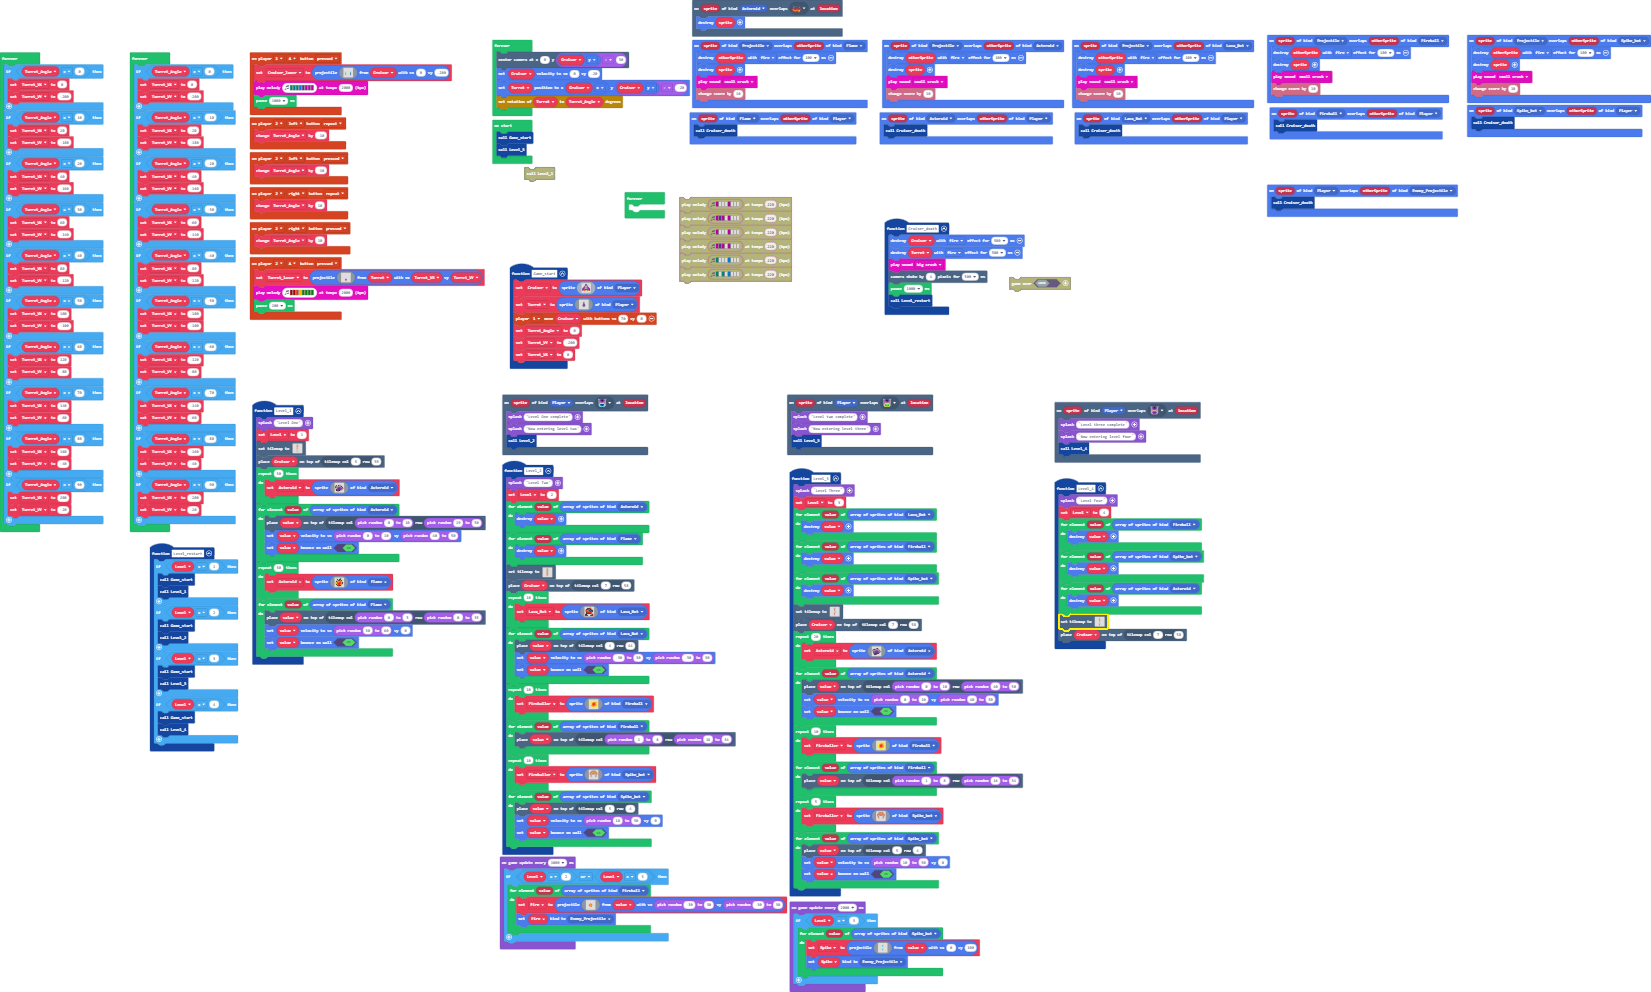
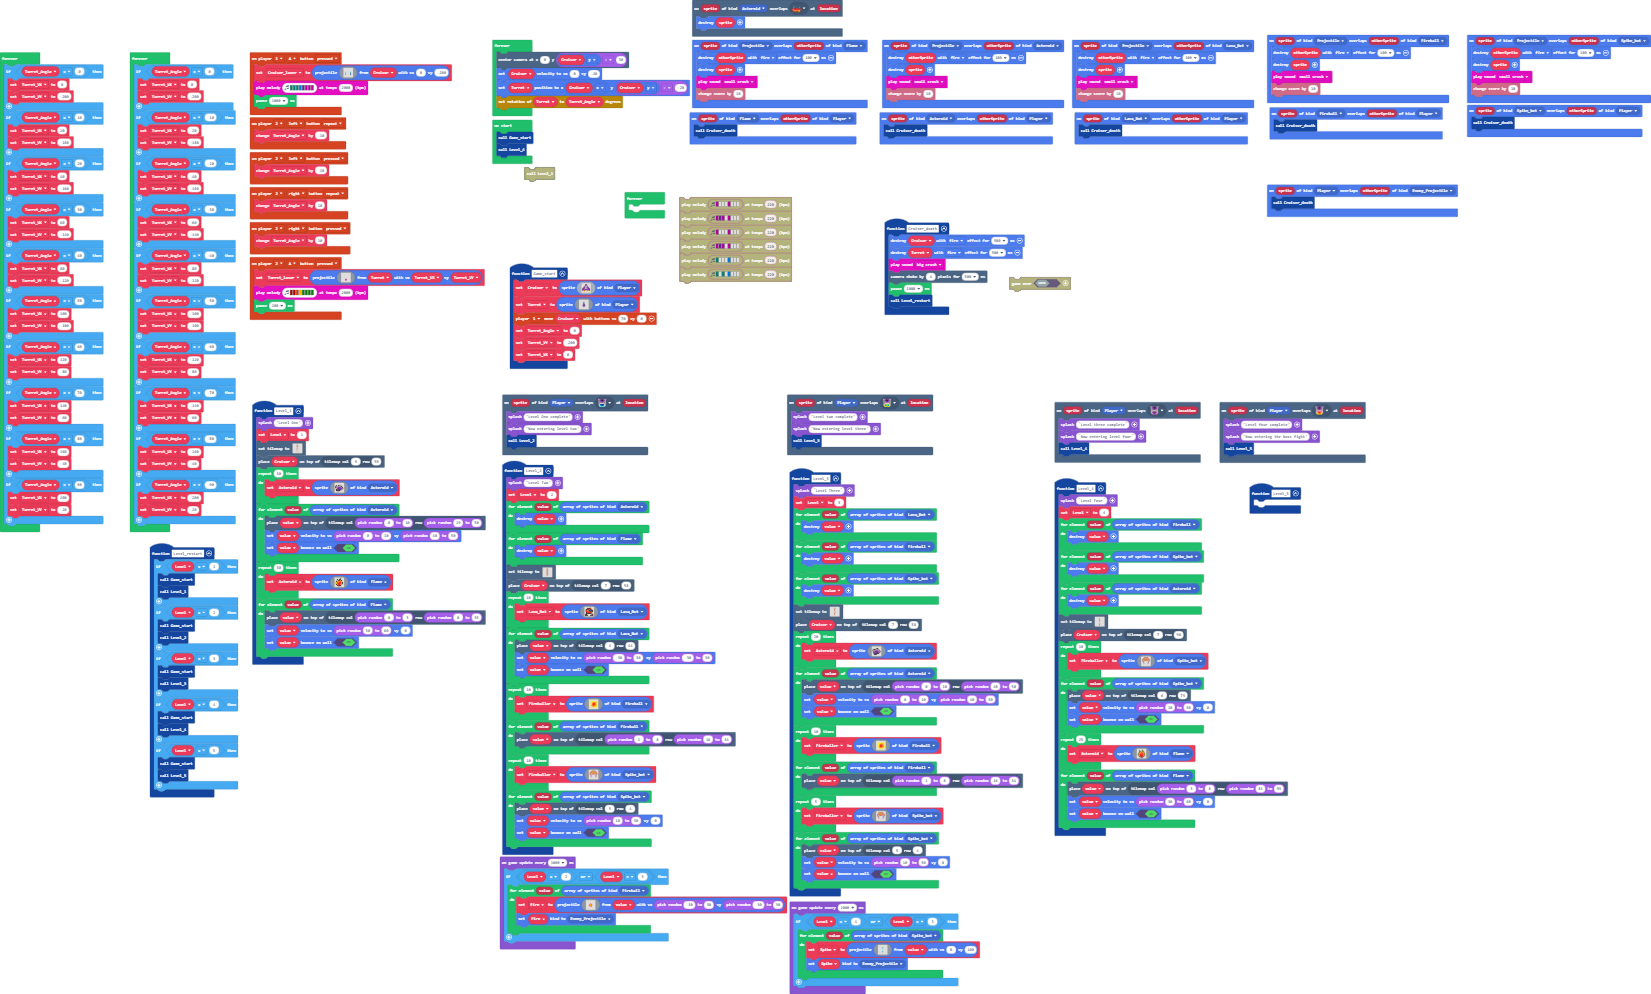
Update main.blocks, main.ts

diff --git a/main.ts b/main.ts
@@ -23,6 +23,10 @@ function Level_restart () {
         Game_start()
         Level_4()
     }
+    if (Level == 5) {
+        Game_start()
+        Level_5()
+    }
 }
 sprites.onOverlap(SpriteKind.Projectile, SpriteKind.Lava_Bot, function (sprite, otherSprite) {
     otherSprite.destroy(effects.fire, 100)
@@ -89,6 +93,11 @@ function Level_1 () {
 sprites.onOverlap(SpriteKind.Spike_bot, SpriteKind.Player, function (sprite, otherSprite) {
     Cruiser_death()
 })
+scene.onOverlapTile(SpriteKind.Player, assets.tile`myTile22`, function (sprite, location) {
+    game.splash("Level four complete")
+    game.splash("Now entering the boss fight")
+    Level_5()
+})
 controller.player2.onButtonEvent(ControllerButton.A, ControllerButtonEvent.Pressed, function () {
     Turret_laser = sprites.createProjectileFromSprite(img`
         . . . . . . . . . . . . . . . . 
@@ -146,7 +155,57 @@ function Level_4 () {
         value.destroy()
     }
     tiles.setTilemap(tilemap`level7`)
-    tiles.placeOnTile(Cruiser, tiles.getTileLocation(7, 58))
+    tiles.placeOnTile(Cruiser, tiles.getTileLocation(7, 98))
+    for (let index = 0; index < 10; index++) {
+        Fireballer = sprites.create(img`
+            . . . . b b b b b b b b . . . . 
+            . . . b 4 4 4 4 4 4 4 4 b . . . 
+            . . b 4 4 b b 4 4 b b 4 4 b . . 
+            . b 4 4 b 5 5 b b 5 5 b 4 4 b . 
+            . b 4 b 4 b b 4 4 b b 4 b 4 b . 
+            b 4 4 b 4 4 4 4 4 4 4 4 b 4 4 b 
+            b 4 b . b 4 4 4 4 4 4 b . b 4 b 
+            b 4 b . . b b b b b b . . b 4 b 
+            . b 4 b . . . . . . . . b 4 b . 
+            . . b 4 b . . . . . . b 4 b . . 
+            . . . b . . . . . . . . b . . . 
+            . . b b b . . . . . . b b b . . 
+            . . b d b . . . . . . b d b . . 
+            . . . d . . . . . . . . d . . . 
+            . . . d . . . . . . . . d . . . 
+            . . . d . . . . . . . . d . . . 
+            `, SpriteKind.Spike_bot)
+    }
+    for (let value of sprites.allOfKind(SpriteKind.Spike_bot)) {
+        tiles.placeOnTile(value, tiles.getTileLocation(6, 73))
+        value.setVelocity(randint(10, 50), 0)
+        value.setBounceOnWall(true)
+    }
+    for (let index = 0; index < 25; index++) {
+        Asteroid = sprites.create(img`
+            . . . . . . . . . . f . . . . . 
+            . . . f . . . . . f . . . . . . 
+            . . . . f . . . f 5 f . . . . . 
+            . . . . f f . . . f 5 f . . . . 
+            . . . f 5 5 f . f 5 4 5 f . . . 
+            . . . f 5 4 5 f 5 4 4 5 f . . . 
+            . . f 5 4 4 4 5 4 4 2 4 5 f . . 
+            . . f 5 4 2 4 4 4 2 4 4 5 f . . 
+            . f 5 4 2 4 4 2 2 2 2 4 4 5 f . 
+            . f 5 4 4 2 2 2 2 2 4 2 4 5 f . 
+            . f 5 4 2 2 2 2 2 2 2 4 4 5 f . 
+            . . f 5 4 2 2 2 2 2 2 4 5 f . . 
+            . . f 5 4 2 2 2 2 2 4 4 5 f . . 
+            . . . f 4 4 2 2 2 2 4 4 f . . . 
+            . . . . f f 2 2 2 2 f f . . . . 
+            . . . . . . f f f f . . . . . . 
+            `, SpriteKind.Flame)
+    }
+    for (let value of sprites.allOfKind(SpriteKind.Flame)) {
+        tiles.placeOnTile(value, tiles.getTileLocation(randint(3, 8), randint(81, 93)))
+        value.setVelocity(randint(30, 60), 0)
+        value.setBounceOnWall(true)
+    }
 }
 scene.onOverlapTile(SpriteKind.Player, assets.tile`myTile17`, function (sprite, location) {
     game.splash("Level two complete")
@@ -171,6 +230,9 @@ sprites.onOverlap(SpriteKind.Projectile, SpriteKind.Fireball, function (sprite, 
     music.smallCrash.play()
     info.changeScoreBy(10)
 })
+function Level_5 () {
+	
+}
 controller.player2.onButtonEvent(ControllerButton.Left, ControllerButtonEvent.Pressed, function () {
     Turret_Angle += -10
 })
@@ -426,9 +488,9 @@ function Cruiser_death () {
 let Fire: Sprite = null
 let Spike: Sprite = null
 let Lava_Bot: Sprite = null
-let Fireballer: Sprite = null
 let Cruiser_laser: Sprite = null
 let Turret_Angle = 0
+let Fireballer: Sprite = null
 let Turret_VY = 0
 let Turret_VX = 0
 let Turret: Sprite = null
@@ -437,9 +499,9 @@ let Asteroid: Sprite = null
 let Cruiser: Sprite = null
 let Level = 0
 Game_start()
-Level_3()
+Level_4()
 game.onUpdateInterval(2000, function () {
-    if (Level == 3) {
+    if (Level == 4 || Level == 3) {
         for (let value of sprites.allOfKind(SpriteKind.Spike_bot)) {
             Spike = sprites.createProjectileFromSprite(img`
                 . . . . . . . . . . . . . . . . 
